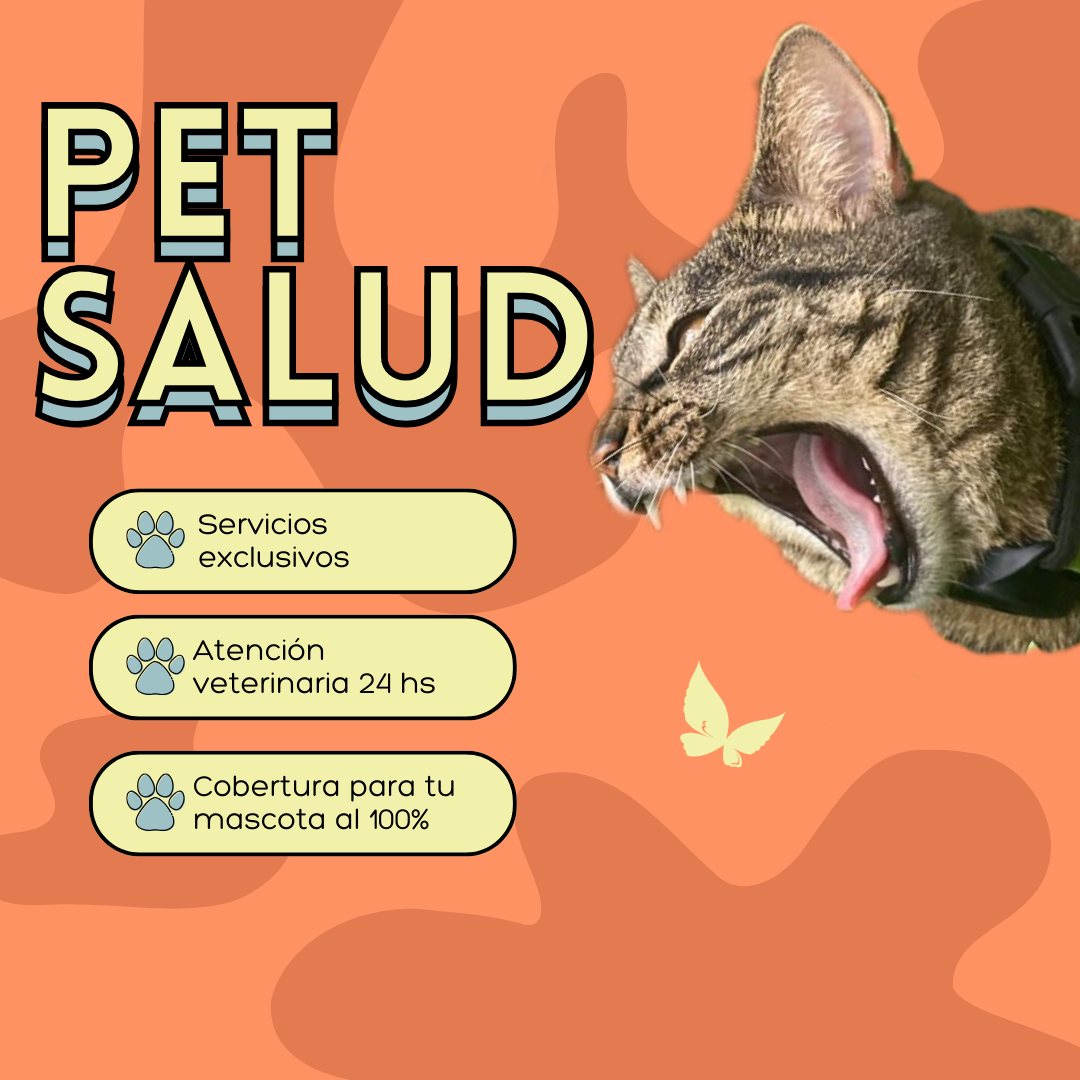
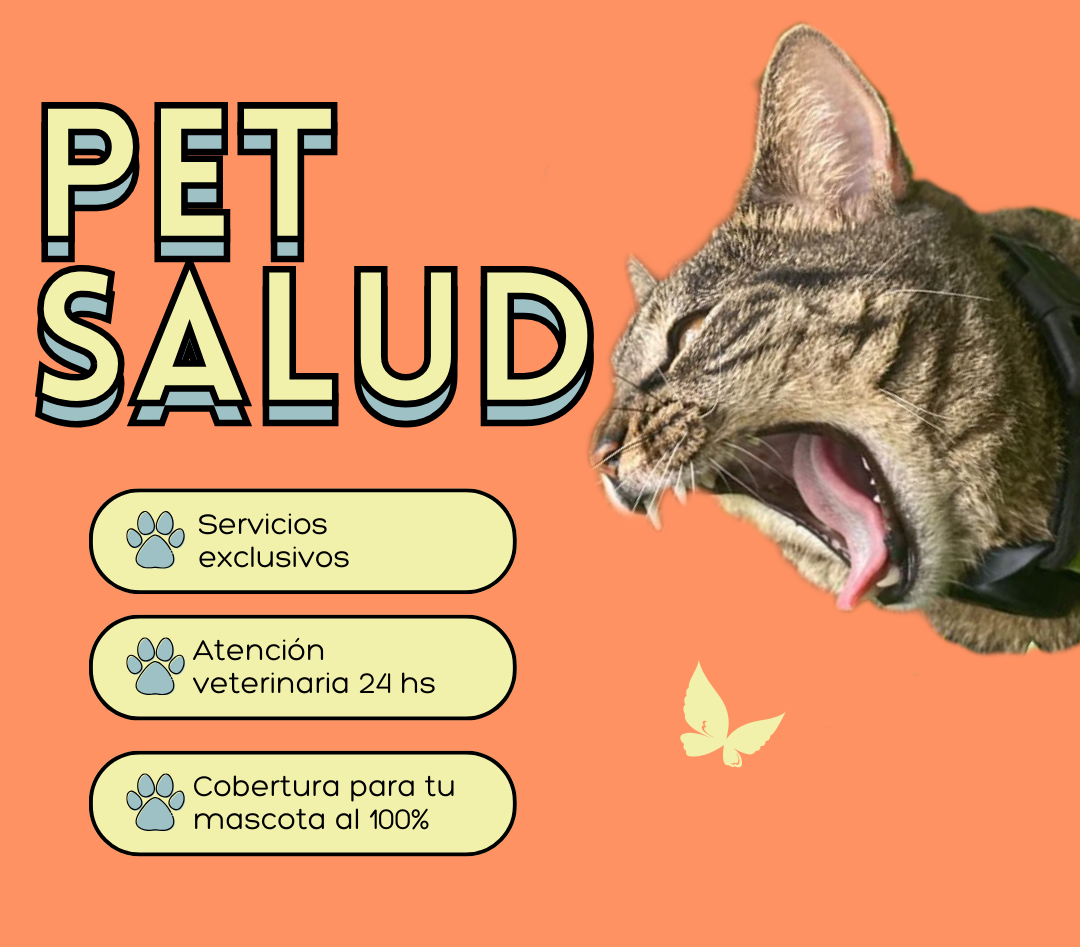
modificación de las imágenes de publicidad, y mejoramiento del orden del footer en la vista media queri 1280px

diff --git a/public/css/styles.css b/public/css/styles.css
@@ -13,6 +13,8 @@
 body{
     font-family: "Roboto", sans-serif;
     background-color: #a49987;
+    display:flex;
+    flex-direction: column;
 }
 
 header{
@@ -311,6 +313,7 @@ main{
 .categorias{
     width:100%;
     height: 28vh;
+    z-index: 1;
 }
 
 @keyframes textoBajo {
@@ -558,7 +561,6 @@ footer{
 
 .footer-cuerpo:hover{
     color:#ffc962;
-    font-size: 20px;
 
 }
 
@@ -779,7 +781,7 @@ footer{
         display:flex;
         color: #f19827;
         position: absolute;
-        left: 15.5%;
+        left: 10%;
         font-size: 20px;
     }
 
@@ -787,7 +789,7 @@ footer{
         display:flex;
         color:#f19827;
         position: absolute;
-        left: 17%;
+        left: 12%;
         font-size: 20px;
     }
 
@@ -814,11 +816,11 @@ footer{
     }
 
     header a.qs{
-        left:24%;
+        left:15%;
     }
 
     header a.contacto{
-        left:30%;
+        left:24%;
     }
 
     header div.submit,
@@ -835,17 +837,43 @@ footer{
         display:flex;
     }
 
-    header img.logo-superior{
+    header a img.logo-superior{
         margin-right: 10px;
+        left: 31%;
     }
 
-    footer{
-        background-color: #2f2822;
-        display:flex;
-        width: 100%;
-        height: 120%;
+    
+    .imagen img{
+        height: 103%;
         position: relative;
-        bottom:0%;
+        left:50%;
+        width: auto;
+        object-fit: cover;
+        transform: translateX(-50%);
+    }
+
+    .compra-segura img{
+        position: absolute;
+        width: auto;
+        height: 17%;
+        top:6%;
+        left:18%;
+    }
+
+    .medios-de-pago img{
+        position: absolute;
+        width: auto;
+        height: 17%;
+        top:37%;
+        left:18%;
+    }
+
+    .envios-sin-cargo img{
+        position: absolute;
+        width: auto;
+        height: 18%;
+        top:70%;
+        left:18%;
     }
 
     .categorias{
@@ -890,47 +918,110 @@ footer{
         position: absolute;
         width:70vh;
         display: block;
-        right: 0%;
+        right: -1%;
+    }
+
+    footer{
+        
+        width: auto;
+        height: 40vh;
+        position: relative;
+        bottom:0%;
+
     }
 
     .footer-div{
-        display:flex;
         flex-direction: row;
-        align-items: center;
+        width: 100%;
+    }
+
+    .footer-titulo{
+        color:#f19827;
+        font-weight: bold;
+        font-size: 22px;
+        margin-top: -20vh;
         position: relative;
+        right: 40vh;
+    }
+
+    #mi-cuenta{
+        right: 65vh;
+    }
+
+    #contacto{
+        right: 53vh;
+    }
+
+    #redes{
+        right:57vh;
+    }
+
+    .footer-cuerpo{
+        color:#f19827;
+        font-size: 16px;
+        line-height: 35px;
+        text-decoration: none;
+        position: relative;
+        right: 50vh;
+        top: -5vh;
+    }
+
+    #terminos {
+        top:0vh;
+        right: 66vh;
+    }
+
+    #privacidad {
+        top:5vh;
+        right: 84vh;
+    }
+
+    #ingresar{
+        top:-5vh;
+        right: 74vh;
+    }
+
+    #registrarme{
+        top:0vh;
+        right: 82.6vh;
+    }
+
+    #contacto{
+        top:0vh;
+        right: 66vh;
+    }
+
+    #contacto-cuerpo{
+        top:-5vh;
+        right: 75vh;
     }
 
     .footer-fb {
-        left:45%;
+        left:136vh;
+        top:17vh;
     }
 
     .footer-instagram {
-        right:47%;
+        right:20vh;
+        top:17vh;
     }
 
     .footer-logo {
         position: relative;
         width: 70%;
-        height: 15%;
-        left: 664%;
+        height: auto;
+        left: 73vh;
         top:3%;
     }
 
     .by {
-        left:47%;
+        left:105vh;
+        top:28vh;
     }
 
     .footer-boton {
-        left: 46%;
-    }
-
-    .imagen img{
-        height: 103%;
-        position: relative;
-        left:50%;
-        width: auto;
-        object-fit: cover;
-        transform: translateX(-50%);
+        left: 105vh;
+        top:33vh;
     }
  
 }

diff --git a/views/productCart.html b/views/productCart.html
@@ -1,0 +1,54 @@
+<!DOCTYPE html>
+<html lang="en">
+
+<head>
+    <meta charset="UTF-8">
+    <title>Bienvenidxs a Nala PetShop</title>
+    <meta name = "viewport" content = "width=device-width, initial-scale = 1.0">
+    <link rel="preconnect" href="https://fonts.googleapis.com">
+    <link href="https://cdnjs.cloudflare.com/ajax/libs/font-awesome/5.15.3/css/all.min.css" rel="stylesheet" />
+    <link rel = "stylesheet" href ="/css/styles.css">
+    <script src="https://kit.fontawesome.com/8a1e4f48aa.js" crossorigin="anonymous"></script>
+    <script src="/images/carrusel.js"></script>
+</head>
+
+<body>
+    <header>
+        <div class="menu"><i class="fa-solid fa-bars" href="#"></i></div>
+        <div class="top fb"><i class="fa-brands fa-facebook-square" href="www.facebook.com"></i></div>
+        <div class="top instagram"><i class="fa-brands fa-instagram" href="www.instagram.com"></i></div>
+        <a class="qs-contacto qs" href="#">Quienes Somos</a>
+        <a class="qs-contacto contacto" href="#">Contacto</a>
+        <a href="/"><img class="logo-superior" src="/images/logo.png" alt="Logo Nala"></a>
+        <input class="buscador" type="text" placeholder="¿Qué estás buscando?">
+        <div class="submit"><i class="fas fa-search"></i></div>
+        <div class="ingresar"><a href="login">Ingresar <i class="fa-solid fa-user" ></a></i></div>
+        <div class="carro"><a href="productCart" class="fa-solid fa-cart-shopping" href=""></a></div>
+    </header>
+    <main>
+
+    </main>
+
+    <footer>
+        <div class="footer-div">
+            <a class="footer-titulo">Ayuda</a>
+            <a class="footer-cuerpo" href="#">Cómo comprar</a>
+            <a class="footer-cuerpo" id="terminos" href="#">Términos y condiciones</a>
+            <a class="footer-cuerpo" id="privacidad" href="#">Privacidad de datos</a>
+            <a class="footer-titulo" id="mi-cuenta">Mi Cuenta</a>
+            <a class="footer-cuerpo" id="ingresar" href="login">Ingresar</a>
+            <a class="footer-cuerpo" id="registrarme" href="register">Registrarme</a>
+            <a class="footer-titulo" id="contacto">Contacto</a>
+            <a class="footer-cuerpo" id="contacto-cuerpo" href="#">Contacto</a>
+            <a class="footer-titulo" id="redes">Seguinos en las redes:</a>
+        </div>
+        <div class="footer-fb"><i class="fa-brands fa-facebook-square" href="www.facebook.com"></i></div>
+        <div class="footer-instagram"><i class="fa-brands fa-instagram" href="www.instagram.com"></i></div>
+        <div class="footer-brand">
+            <a href="/"><img class="footer-logo" src="/images/logo.png" alt="Logo Nala"></a>
+            <a class="by">Creado por:</a><a class="footer-boton grupo-seis">GRUPO SEIS</a>
+        </div>
+    </footer>
+</body>
+
+</html>

diff --git a/views/login.html b/views/login.html
@@ -21,8 +21,8 @@
         <a href="/"><img class="logo-superior" src="/images/logo.png" alt="Logo Nala"></a>
         <input class="buscador" type="text" placeholder="¿Qué estás buscando?">
         <div class="submit"><i class="fas fa-search"></i></div>
-        <div class="ingresar"><a href="login">Ingresar<i class="fa-solid fa-user" ></a></i></div>
-        <div class="carro"><i class="fa-solid fa-cart-shopping" href=""></i></div>
+        <div class="ingresar"><a href="login">Ingresar <i class="fa-solid fa-user" ></a></i></div>
+        <div class="carro"><a href="productCart" class="fa-solid fa-cart-shopping" href=""></a></div>
     </header>
     <main>
         <div class="contenedor-accesousuario">
@@ -69,19 +69,19 @@
         <div class="footer-div">
             <a class="footer-titulo">Ayuda</a>
             <a class="footer-cuerpo" href="#">Cómo comprar</a>
-            <a class="footer-cuerpo" href="#">Términos y condiciones</a>
-            <a class="footer-cuerpo" href="#">Privacidad de datos</a>
-            <a class="footer-titulo">Mi Cuenta</a>
-            <a class="footer-cuerpo" href="#">Ingresar</a>
-            <a class="footer-cuerpo" href="#">Registrarme</a>
-            <a class="footer-titulo">Contacto</a>
-            <a class="footer-cuerpo" href="#">Contacto</a>
-            <a class="footer-titulo">Seguinos en las redes:</a>
+            <a class="footer-cuerpo" id="terminos" href="#">Términos y condiciones</a>
+            <a class="footer-cuerpo" id="privacidad" href="#">Privacidad de datos</a>
+            <a class="footer-titulo" id="mi-cuenta">Mi Cuenta</a>
+            <a class="footer-cuerpo" id="ingresar" href="login">Ingresar</a>
+            <a class="footer-cuerpo" id="registrarme" href="register">Registrarme</a>
+            <a class="footer-titulo" id="contacto">Contacto</a>
+            <a class="footer-cuerpo" id="contacto-cuerpo" href="#">Contacto</a>
+            <a class="footer-titulo" id="redes">Seguinos en las redes:</a>
         </div>
         <div class="footer-fb"><i class="fa-brands fa-facebook-square" href="www.facebook.com"></i></div>
         <div class="footer-instagram"><i class="fa-brands fa-instagram" href="www.instagram.com"></i></div>
         <div class="footer-brand">
-            <img class="footer-logo" src="/images/logo.png" alt="Logo Nala">
+            <a href="/"><img class="footer-logo" src="/images/logo.png" alt="Logo Nala"></a>
             <a class="by">Creado por:</a><a class="footer-boton grupo-seis">GRUPO SEIS</a>
         </div>
     </footer>

diff --git a/views/register.html b/views/register.html
@@ -22,7 +22,7 @@
         <input class="buscador" type="text" placeholder="¿Qué estás buscando?">
         <div class="submit"><i class="fas fa-search"></i></div>
         <div class="ingresar"><a href="login">Ingresar <i class="fa-solid fa-user" ></a></i></div>
-        <div class="carro"><i class="fa-solid fa-cart-shopping" href=""></i></div>
+        <div class="carro"><a href="productCart" class="fa-solid fa-cart-shopping" href=""></a></div>
     </header>
     <main>
         <div class="contenedor-accesousuario">
@@ -73,19 +73,19 @@
         <div class="footer-div">
             <a class="footer-titulo">Ayuda</a>
             <a class="footer-cuerpo" href="#">Cómo comprar</a>
-            <a class="footer-cuerpo" href="#">Términos y condiciones</a>
-            <a class="footer-cuerpo" href="#">Privacidad de datos</a>
-            <a class="footer-titulo">Mi Cuenta</a>
-            <a class="footer-cuerpo" href="#">Ingresar</a>
-            <a class="footer-cuerpo" href="#">Registrarme</a>
-            <a class="footer-titulo">Contacto</a>
-            <a class="footer-cuerpo" href="#">Contacto</a>
-            <a class="footer-titulo">Seguinos en las redes:</a>
+            <a class="footer-cuerpo" id="terminos" href="#">Términos y condiciones</a>
+            <a class="footer-cuerpo" id="privacidad" href="#">Privacidad de datos</a>
+            <a class="footer-titulo" id="mi-cuenta">Mi Cuenta</a>
+            <a class="footer-cuerpo" id="ingresar" href="login">Ingresar</a>
+            <a class="footer-cuerpo" id="registrarme" href="register">Registrarme</a>
+            <a class="footer-titulo" id="contacto">Contacto</a>
+            <a class="footer-cuerpo" id="contacto-cuerpo" href="#">Contacto</a>
+            <a class="footer-titulo" id="redes">Seguinos en las redes:</a>
         </div>
         <div class="footer-fb"><i class="fa-brands fa-facebook-square" href="www.facebook.com"></i></div>
         <div class="footer-instagram"><i class="fa-brands fa-instagram" href="www.instagram.com"></i></div>
         <div class="footer-brand">
-            <img class="footer-logo" src="/images/logo.png" alt="Logo Nala">
+            <a href="/"><img class="footer-logo" src="/images/logo.png" alt="Logo Nala"></a>
             <a class="by">Creado por:</a><a class="footer-boton grupo-seis">GRUPO SEIS</a>
         </div>
     </footer>

diff --git a/views/index.html b/views/index.html
@@ -65,19 +65,19 @@
         <div class="footer-div">
             <a class="footer-titulo">Ayuda</a>
             <a class="footer-cuerpo" href="#">Cómo comprar</a>
-            <a class="footer-cuerpo" href="#">Términos y condiciones</a>
-            <a class="footer-cuerpo" href="#">Privacidad de datos</a>
-            <a class="footer-titulo">Mi Cuenta</a>
-            <a class="footer-cuerpo" href="#">Ingresar</a>
-            <a class="footer-cuerpo" href="#">Registrarme</a>
-            <a class="footer-titulo">Contacto</a>
-            <a class="footer-cuerpo" href="#">Contacto</a>
-            <a class="footer-titulo">Seguinos en las redes:</a>
+            <a class="footer-cuerpo" id="terminos" href="#">Términos y condiciones</a>
+            <a class="footer-cuerpo" id="privacidad" href="#">Privacidad de datos</a>
+            <a class="footer-titulo" id="mi-cuenta">Mi Cuenta</a>
+            <a class="footer-cuerpo" id="ingresar" href="login">Ingresar</a>
+            <a class="footer-cuerpo" id="registrarme" href="register">Registrarme</a>
+            <a class="footer-titulo" id="contacto">Contacto</a>
+            <a class="footer-cuerpo" id="contacto-cuerpo" href="#">Contacto</a>
+            <a class="footer-titulo" id="redes">Seguinos en las redes:</a>
         </div>
         <div class="footer-fb"><i class="fa-brands fa-facebook-square" href="www.facebook.com"></i></div>
         <div class="footer-instagram"><i class="fa-brands fa-instagram" href="www.instagram.com"></i></div>
         <div class="footer-brand">
-            <img class="footer-logo" src="/images/logo.png" alt="Logo Nala">
+            <a href="/"><img class="footer-logo" src="/images/logo.png" alt="Logo Nala"></a>
             <a class="by">Creado por:</a><a class="footer-boton grupo-seis">GRUPO SEIS</a>
         </div>
     </footer>
